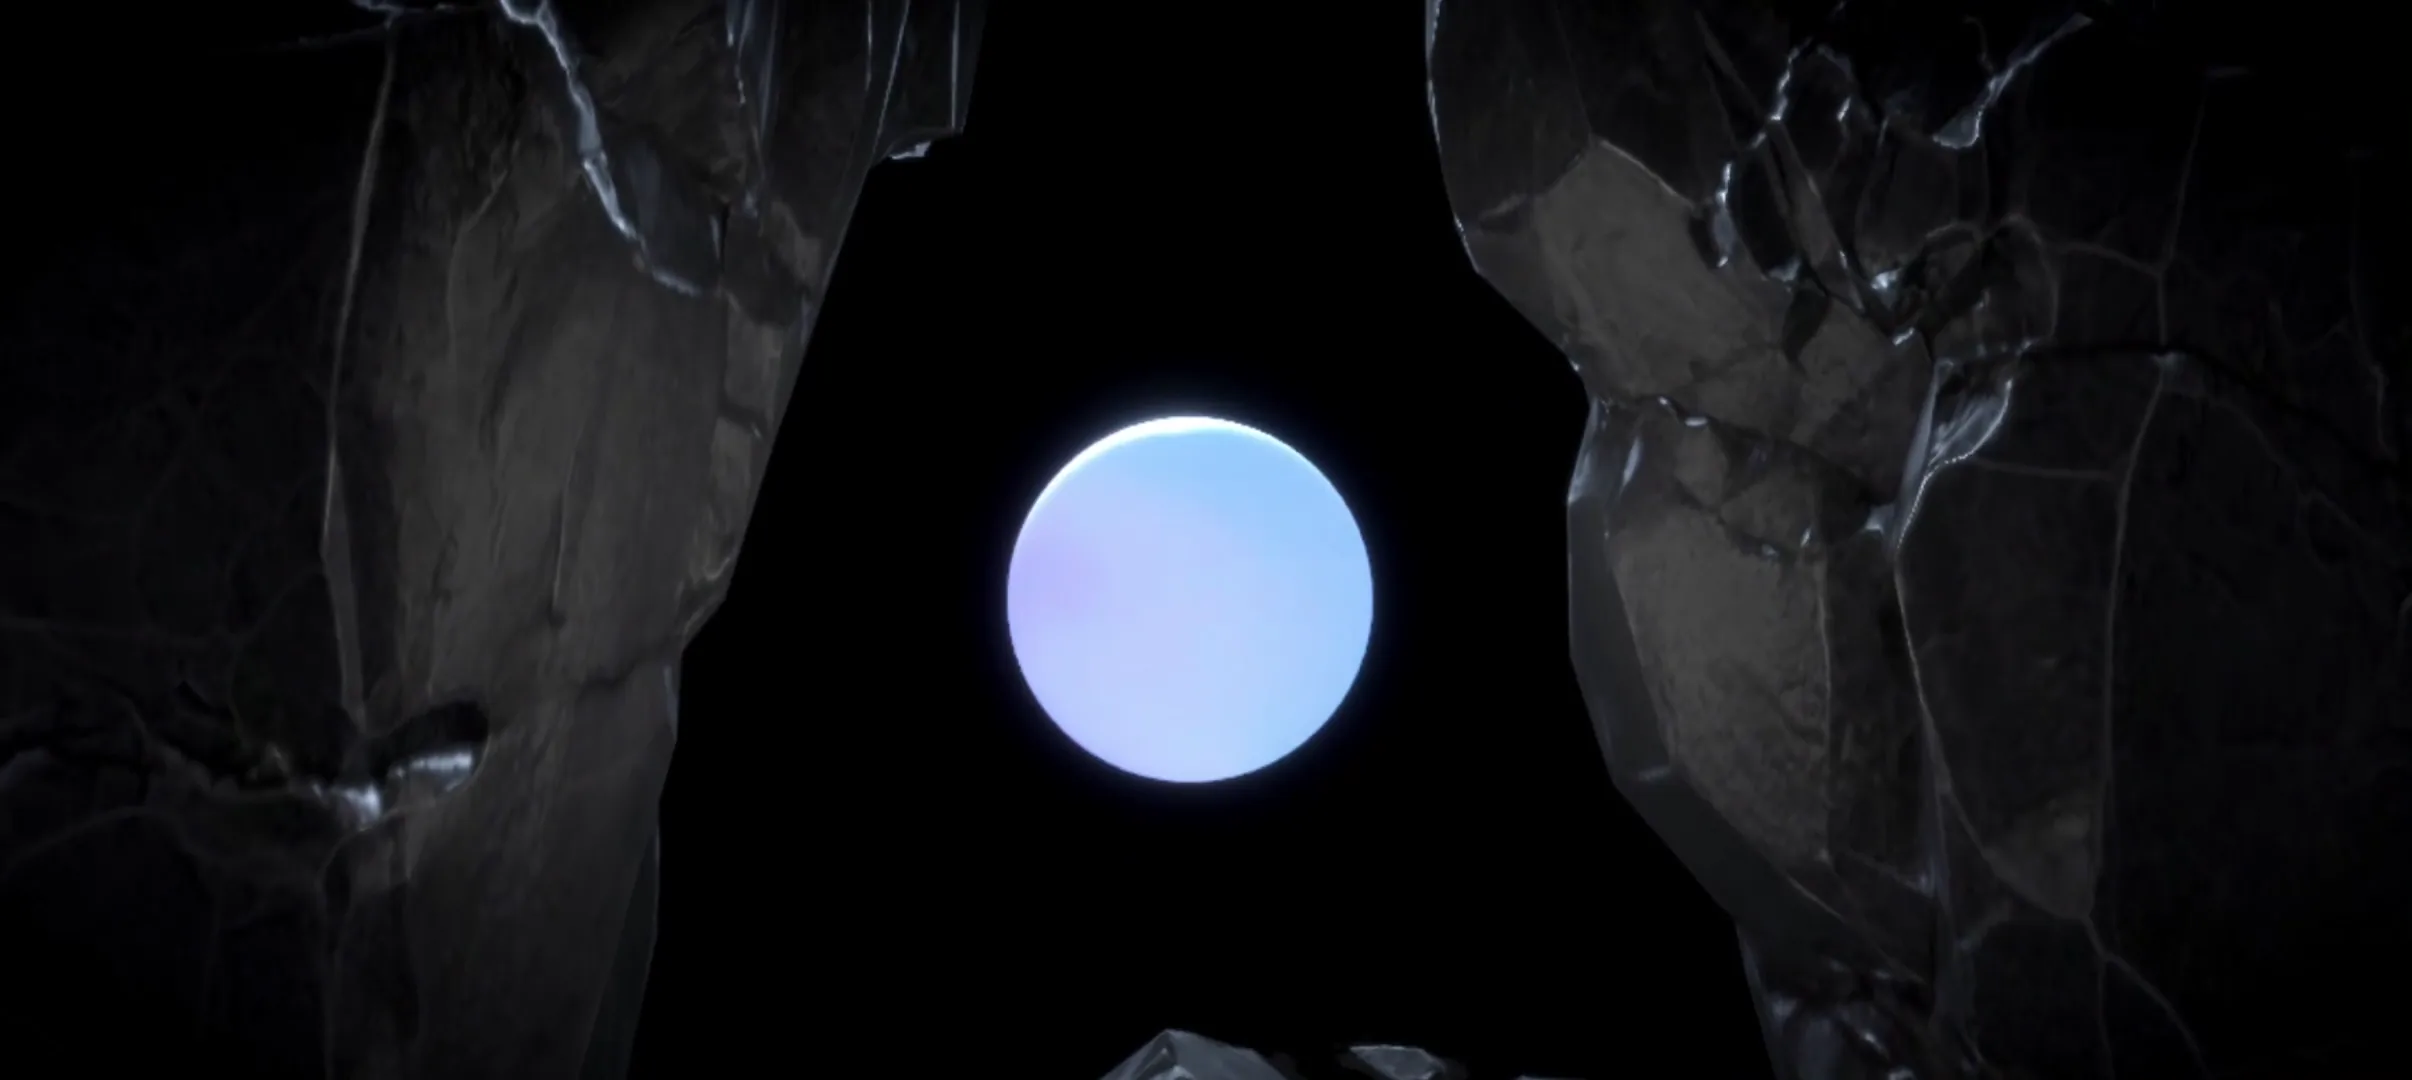
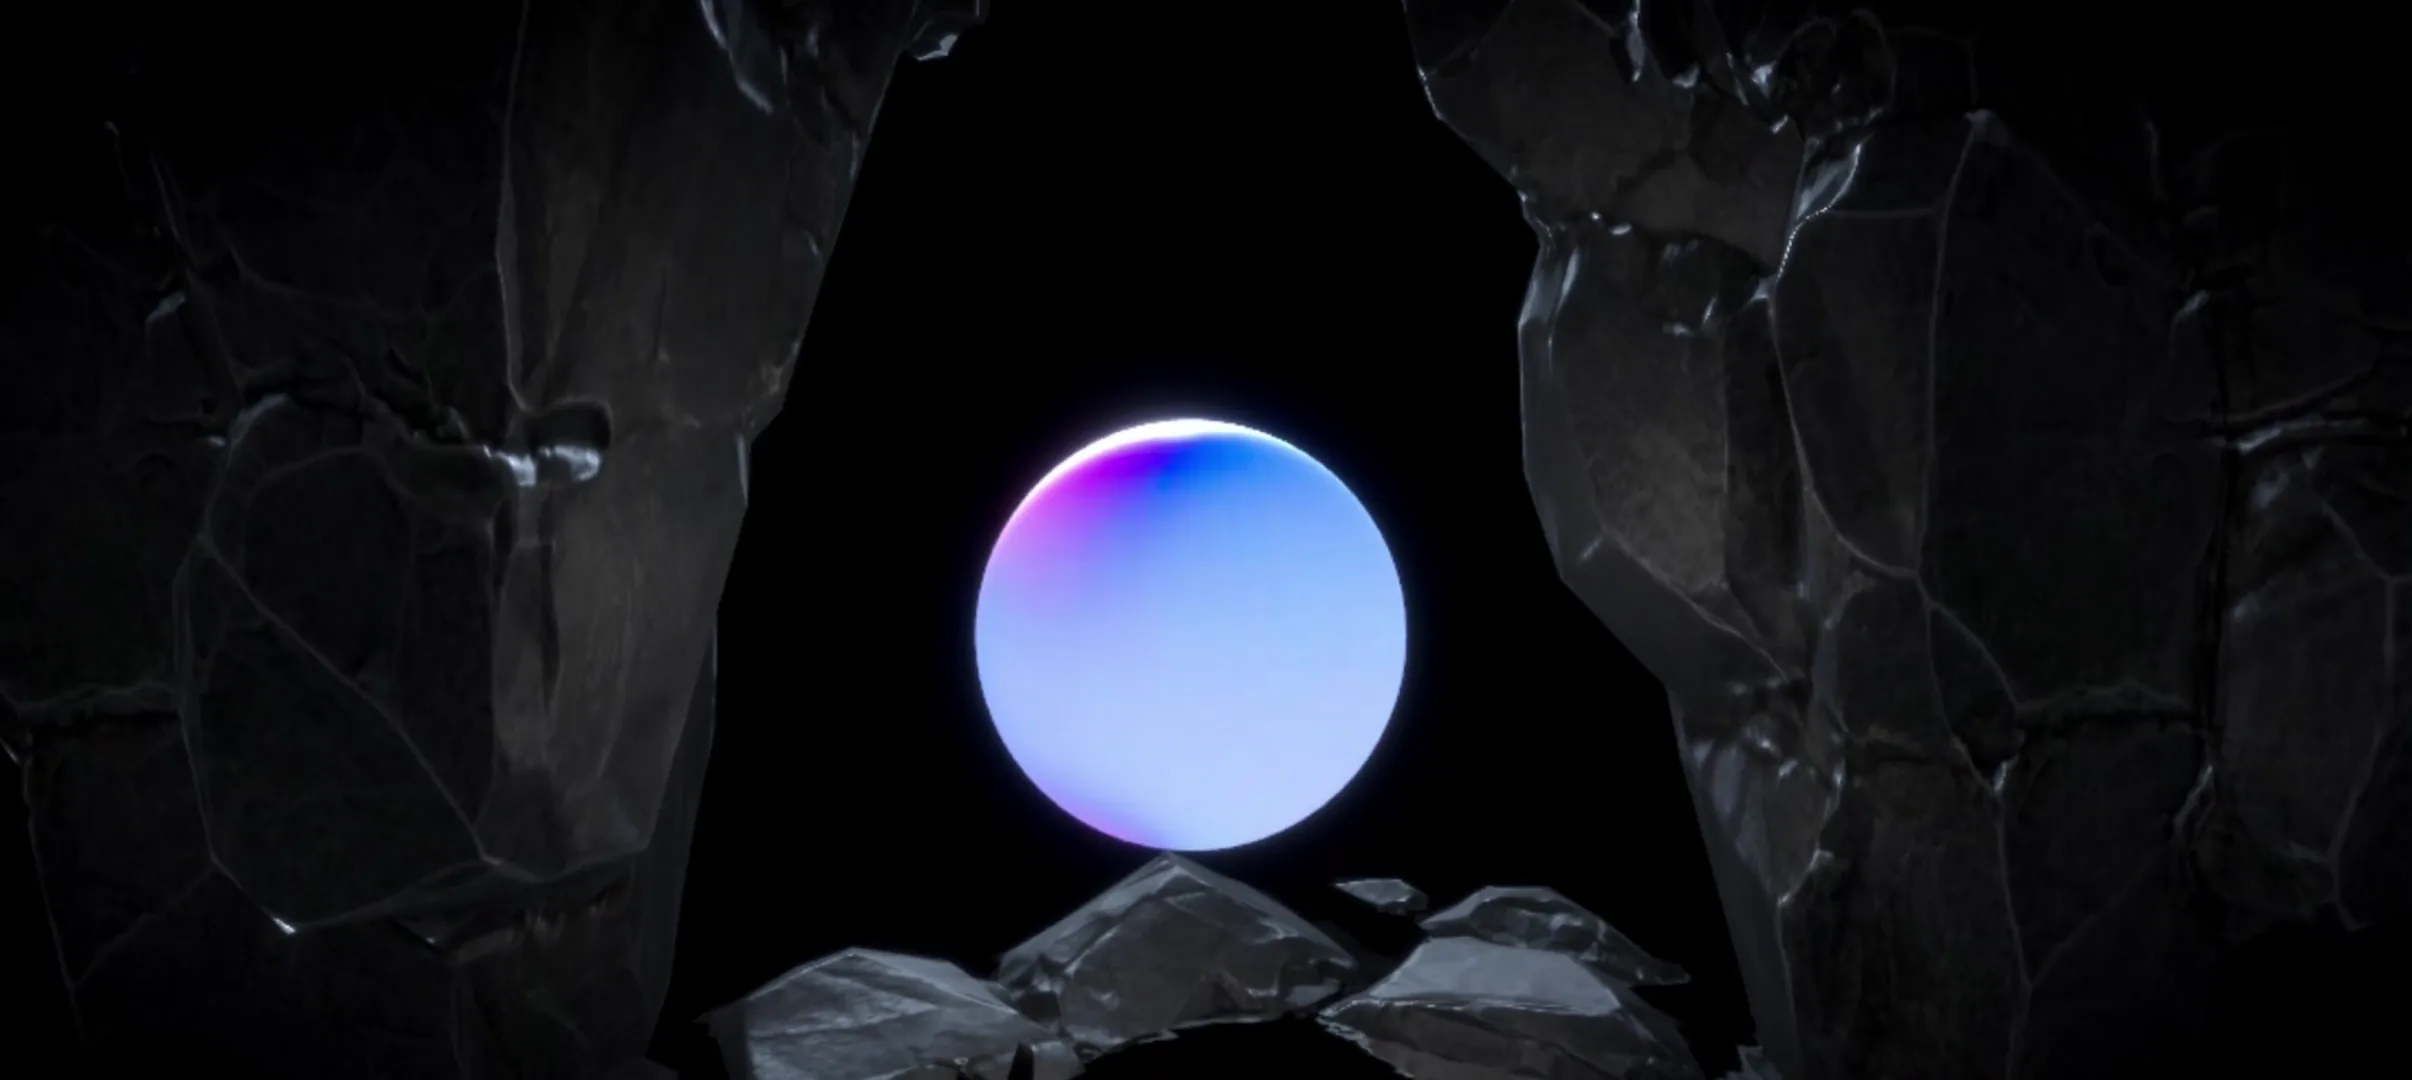
SPA: brighter still frame + lighter overlay so the bg is actually visible
User reported the page rendering "fully black" after the previous still
landed. Two compounding causes:

  · The frame I extracted at 45s had a tiny dim moon and was 80%+ dark
    stone — basically the worst slice of the 136 s sequence for use as
    a hero background with content over it.
  · The overlay scrim was 42–62 % black (vs login.html's 30–55 %), which
    on top of an already-dark image squeezed the remaining luminance
    into near-pure black.

Fixes:

  · Re-extracted the still at 55 s — the big vibrant blue→pink orb is
    centred between two dramatic stone walls with a rocky base
    underneath. Reads as a deliberate hero composition, not "kind of
    dark stuff somewhere".
  · Lightened .oh-bg-overlay to 25–48 %, slightly softer than login so
    the orb's bright centre still pops through the scrim. Glass cards
    still have enough contrast — their backdrop-filter blur does most
    of the readability work; the scrim is just insurance.

Both image variants regenerated:
  · assets/bg-login-still.webp — 43 KB (was 37)
  · assets/bg-login-still.jpg  — 104 KB (was 90)

diff --git a/index.html b/index.html
@@ -262,8 +262,12 @@
     inset: 0;
     z-index: -1;
     pointer-events: none;
+    /* Light scrim — the still is mostly dark stone with a bright orb in
+       the centre. Heavier opacity (42-62%) made it read as fully black.
+       This matches login.html's overlay (30-55%) more closely so the orb
+       and stone walls stay visible behind the glass cards. */
     background:
-      linear-gradient(180deg, rgba(0,0,0,0.42) 0%, rgba(0,0,0,0.55) 60%, rgba(0,0,0,0.62) 100%);
+      linear-gradient(180deg, rgba(0,0,0,0.25) 0%, rgba(0,0,0,0.40) 60%, rgba(0,0,0,0.48) 100%);
   }
 
 </style>